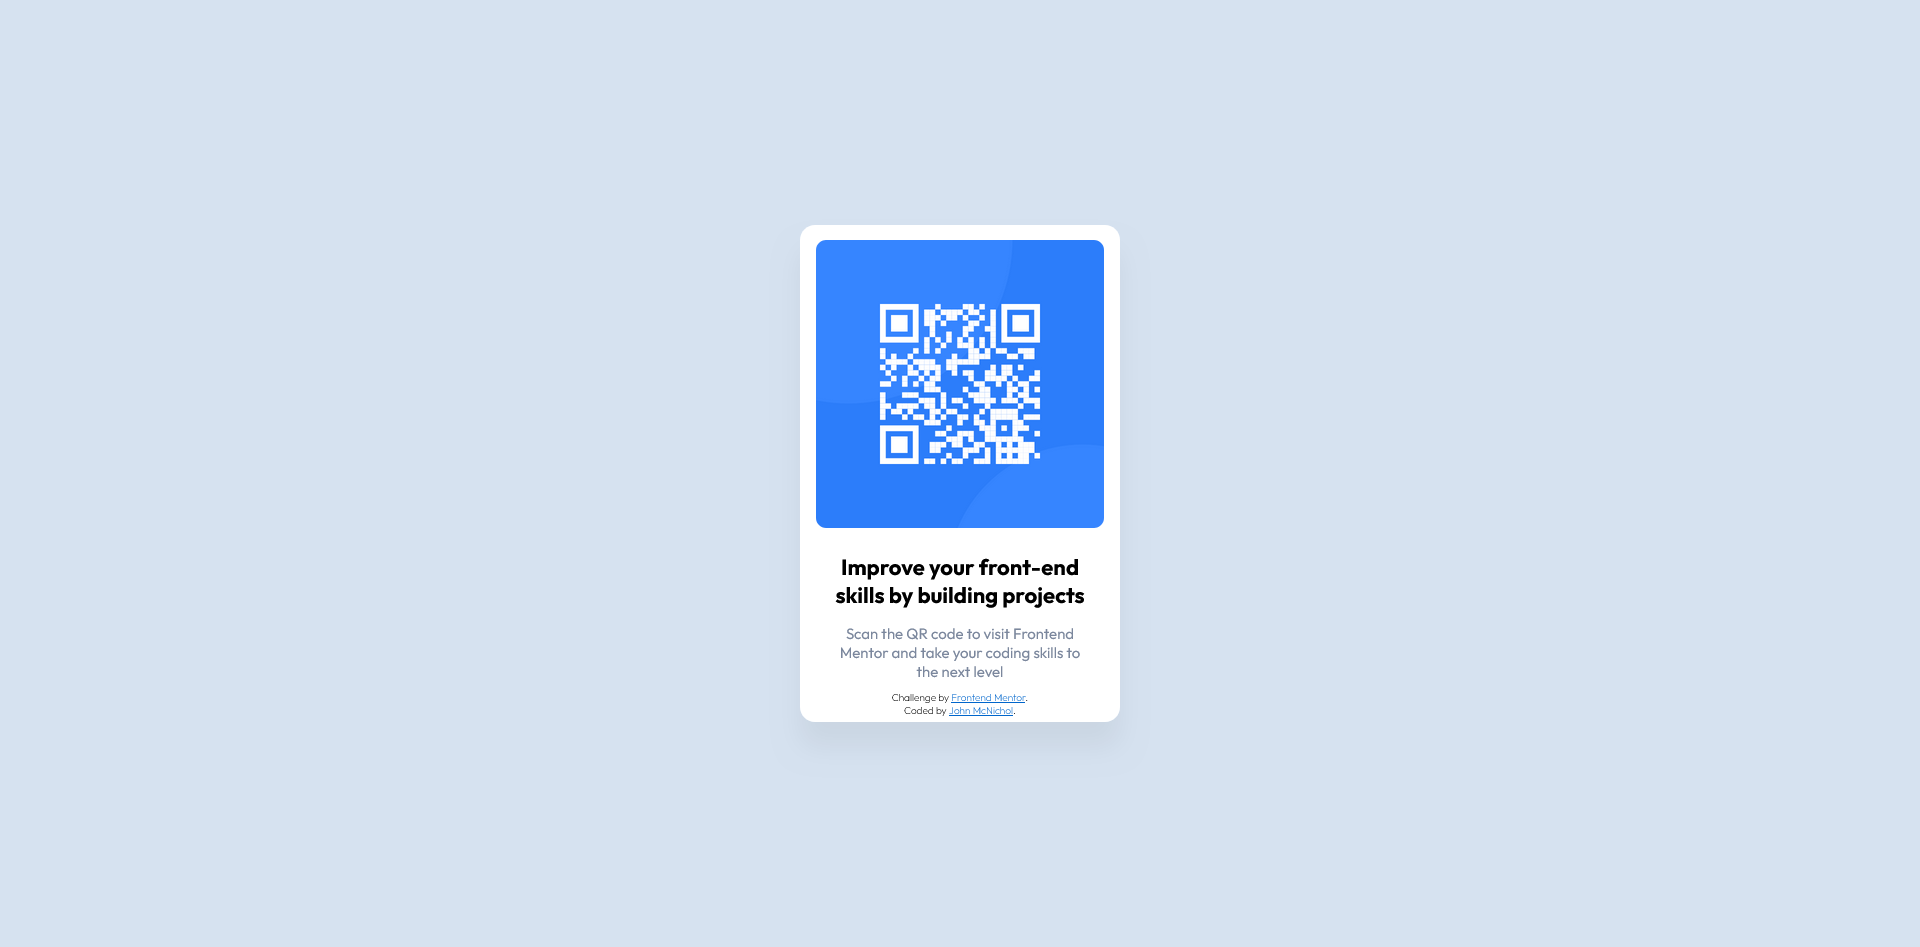
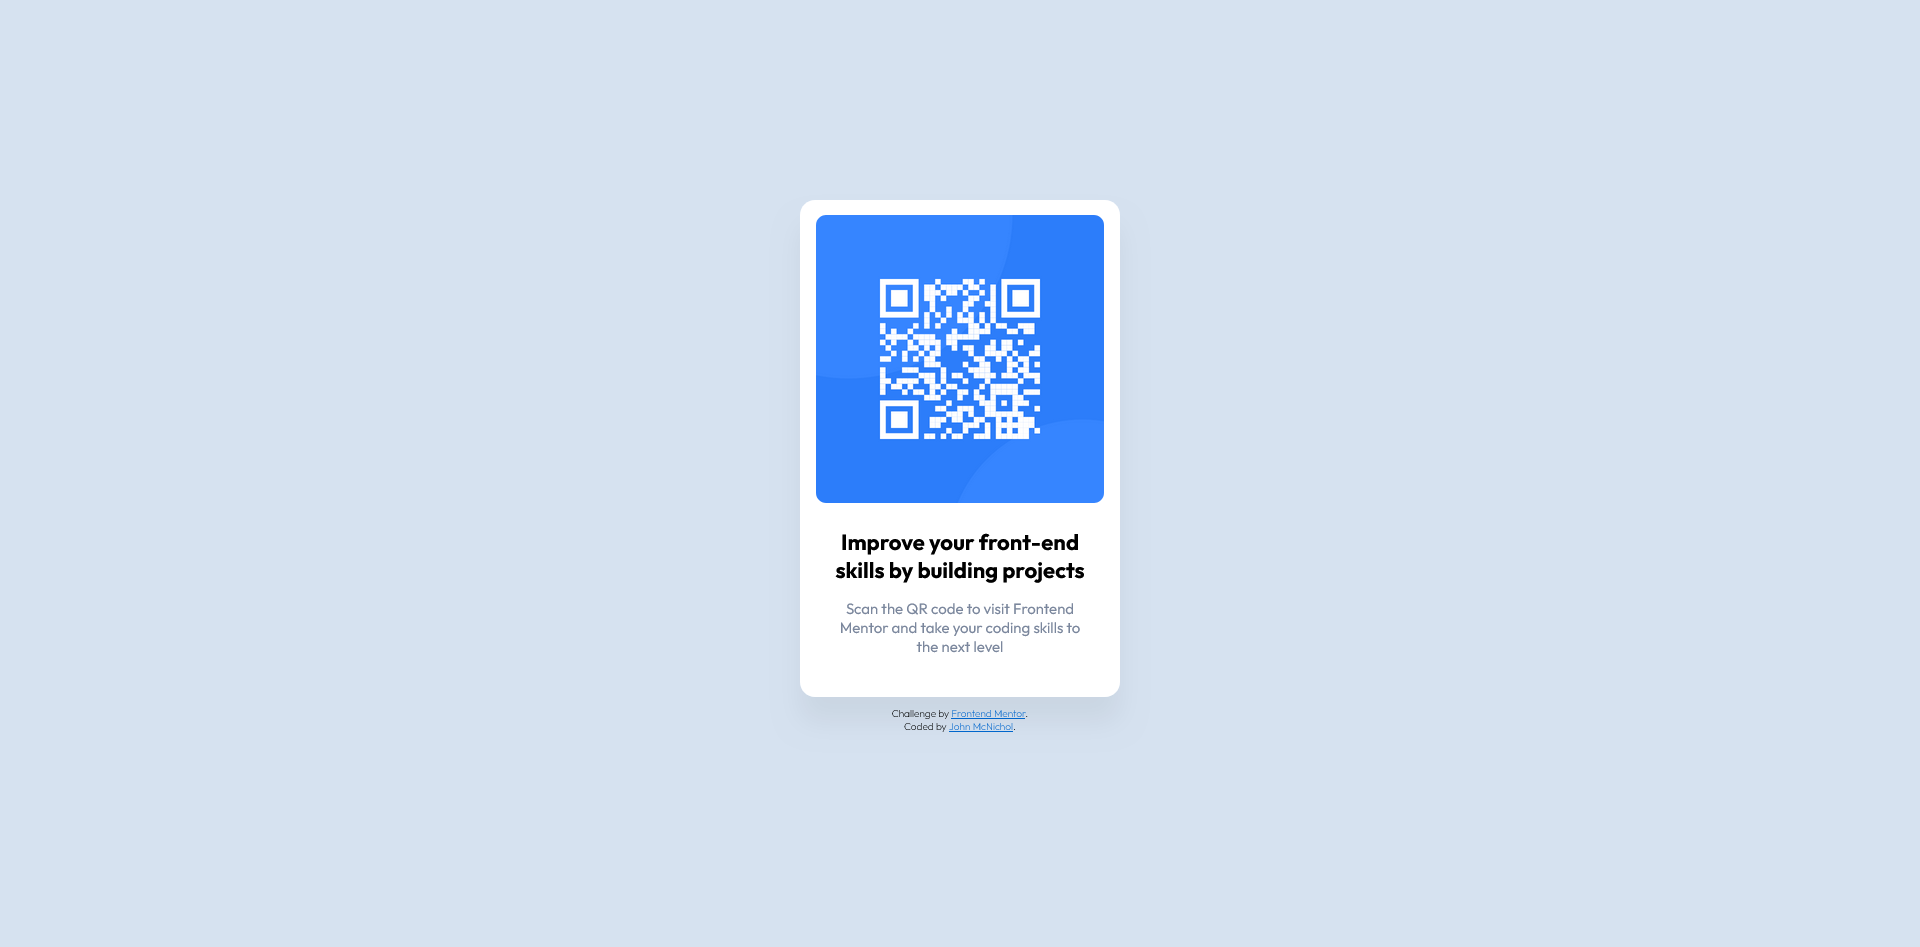
Moved attribution
Moved the attribution to outside of the main element and fixed the semantic HTML so the <main> and <footer> are separate.

Changed region(s): [[0.4062, 0.1837, 0.5938, 0.49], [0.4062, 0.5206, 0.5938, 0.7962]]

diff --git a/index.html b/index.html
@@ -31,21 +31,21 @@
 				Scan the QR code to visit Frontend Mentor and take your coding skills to
 				the next level
 			</p>
-			<footer class="attribution">
-				<p>
-					Challenge by
-					<a
-						href="https://www.frontendmentor.io/challenges/qr-code-component-iux_sIO_H"
-						target="_blank"
-						>Frontend Mentor</a
-					>. <br />Coded by
-					<a
-						href="https://www.frontendmentor.io/profile/inappdesign"
-						target="_blank"
-						>John McNichol</a
-					>.
-				</p>
-			</footer>
 		</main>
+		<footer class="attribution">
+			<p>
+				Challenge by
+				<a
+					href="https://www.frontendmentor.io/challenges/qr-code-component-iux_sIO_H"
+					target="_blank"
+					>Frontend Mentor</a
+				>. <br />Coded by
+				<a
+					href="https://www.frontendmentor.io/profile/inappdesign"
+					target="_blank"
+					>John McNichol</a
+				>.
+			</p>
+		</footer>
 	</body>
 </html>

diff --git a/style.css b/style.css
@@ -24,6 +24,7 @@ body {
 	font-family: "Outfit", sans-serif;
 	min-height: 100vh;
 	display: flex;
+	flex-direction: column;
 	justify-content: center;
 	align-items: center;
 	font-size: 1.5rem;
@@ -63,6 +64,7 @@ body {
 }
 
 .attribution {
+	margin-top: 1rem;
 	font-size: 1rem;
 	font-weight: 200;
 	text-align: center;
